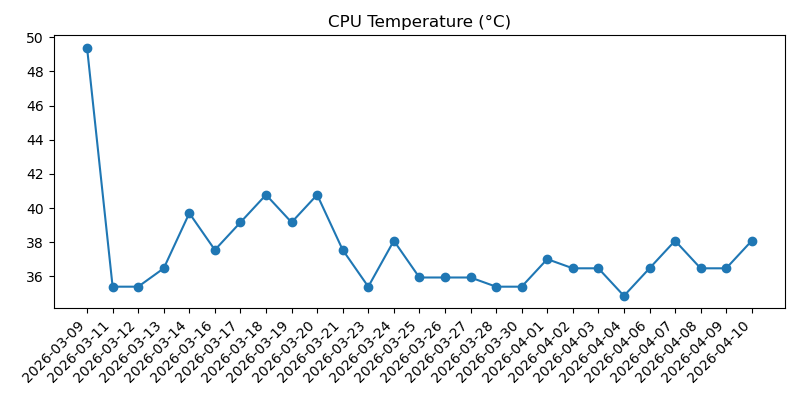
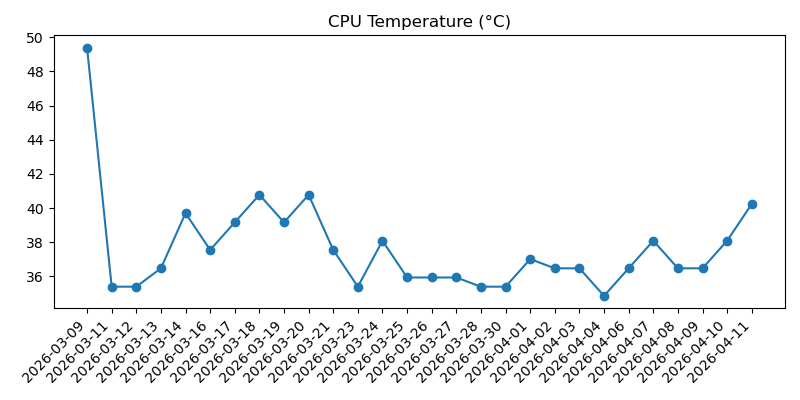
Record daily machine check

diff --git a/2026-04.md b/2026-04.md
@@ -306,3 +306,37 @@
 - Overall: Good
 - Warning: None
 
+## 2026-04-11 12:56:16
+
+### Machine
+- Uptime: up 1 week, 3 days, 22 hours, 52 minutes
+- CPU load (1m, 5m, 15m): 0.06, 0.02, 0.00
+- RAM used: 165 MB / 921 MB (17.9%)
+- Disk used (/): 3.5 GB / 28.8 GB (12.2%)
+- Free disk space (/): 24.1 GB
+- CPU temp: 40.2°C
+- Voltage / throttling: OK
+
+### Reachability
+- Internet check (1.1.1.1): Reachable (3.2 ms)
+
+### Weather
+- Madrid:
+  - Condition: Cubierto con lluvia escasa
+  - Max temp: 25°C
+  - Min temp: 12°C
+  - Feels like: 18°C
+  - Chance of rain: 100%
+  - Warnings: None reported
+- Barcelona:
+  - Condition: Nubes altas
+  - Max temp: 23°C
+  - Min temp: 14°C
+  - Feels like: 19°C
+  - Chance of rain: 0%
+  - Warnings: None reported
+
+### Health
+- Overall: Good
+- Warning: None
+
